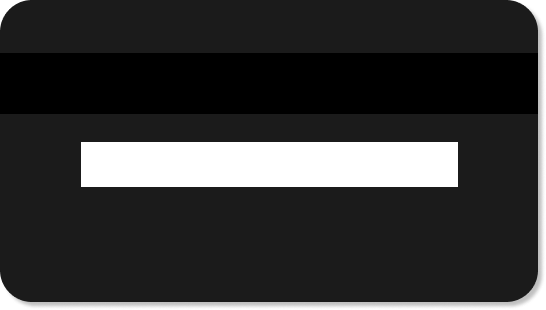
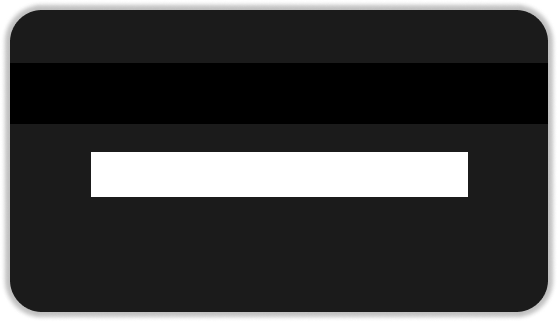
credit card front wip

Changed region(s): [[0.0, 0.0, 0.9963, 0.9871], [0.1245, 0.4355, 0.8407, 0.6387]]

diff --git a/styles.css b/styles.css
@@ -4,7 +4,6 @@
 }
 
 body {
-    height: 100vh;
     font-family: 'Lato', sans-serif;
 
 }
@@ -12,24 +11,20 @@ body {
 .grid {
     display: grid;
     grid-template-columns: 40% auto;
-    height: 100%;
+    height: 100vh;
 }
 
 .interactive-card-section {
     background-image: linear-gradient(#280042, rgba(95, 3, 45, 0.9));
-    min-width: 550px;
+    min-width: 558px;
 }
 
 .card-front-container {
-    display: flex;
     width: 100%;
-    justify-content: center;
+    position: relative;
+    width: fit-content;
+    align-self: center;
 } 
-
-.card-front {
-    margin-left: auto;
-    margin-right: auto;
-}
 
 .card-back-container {
     display: flex;
@@ -47,4 +42,22 @@ body {
     flex-direction: column;
     justify-content: center;
     height: 100%;
+}
+
+.card-number-container {
+    display: flex;
+    position: absolute;
+    top: 142px;
+    left: 40px;
+    gap: 20px;
+}
+
+
+.card-number {
+    /* position: absolute; */
+    left: 0px;
+    font-size: 24px;
+    font-weight: 500;
+    color: white;
+    letter-spacing: 2px;
 }

diff --git a/index.html b/index.html
@@ -15,7 +15,13 @@
        <section class="interactive-card-section">
         <div class="card-front-and-back-container">
             <div class="card-front-container">
-                <img src="card-front.png" alt="" class="card-front">
+                <div class="card-number-container">
+                    <p class="card-number">0000</p>
+                    <p class="card-number">0000</p>
+                    <p class="card-number">0000</p>
+                    <p class="card-number">0000</p>
+                </div>
+                <img src="card-front.png" alt="">
             </div>
     
             <div class="card-back-container">
